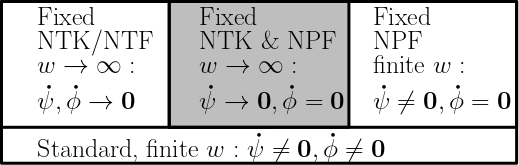
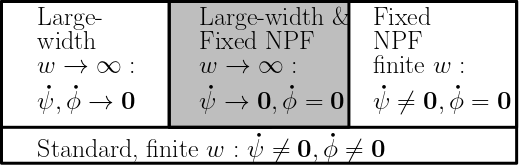
opti-refining

Changed region(s): [[0.3699, 0.0303, 0.6782, 0.303], [0.0617, 0.0303, 0.3083, 0.3333]]

diff --git a/fixednpf.tex b/fixednpf.tex
@@ -1,23 +1,5 @@
 \section{Fixed NPF regime}
-\begin{wrapfigure}{h}{0.3\textwidth}
-\includegraphics[scale=0.25]{figs/regime.png}
-\caption{\label{fig:regime} Regimes.}
-\end{wrapfigure}
-In the fixed NPF regime, we forcefully \emph{turn-off} feature learning, i.e., we let the feature gradient $\psi^{\phi}_{x,\Theta}=0$. In order to do this, we hold the gates and hence the NPFs in a separate gating network parameterised by $\Tg\inrdnet$, and the NPVs in a different network called value network parameterised by $\Theta\inrdnet$ (see \Cref{fig:dgn}). By letting the parameters of the gating network non-trainable, we can force $\psi^{\phi}_{x,\Theta}$ to be $0$. \WFclear A comparison of the GD dynamics across the three regimes namely i) the standard regime, wherein, width is finite, and the NPFs are learnt, ii) the `large-width' regime, in which the NPFs, NTFs do not deviate much from initialisation and iii) the fixed NPF regime are given in \Cref{tb:dynamics}. Note that if we let $w\ra\infty$ in the fixed NPF regime, can have a regime which is both `large-width' as well as fixed NPF (see middle region in \Cref{fig:regime}). Further, in the fixed NPF regime, $K_{\Theta}=K^v_{\Theta}$.
-\FloatBarrier
-\begin{table}[h]\centering
-\resizebox{\columnwidth}{!}{
-\begin{tabular}{| l | l | l |}\hline
-Finite $w$ with NPF learning (standard) & Large-Width & Fixed NPF\\\hline
-$\dot{\Theta}_t=-\sum_{s=1}^n \psi_{x,t}e_t(s)$ &$\dot{\Theta}_t\ra 0$ &$\dot{\Theta}_t=-\sum_{s=1}^n \psi^v_{x,t}e_t(s)$ \\\hline
-$\dot{\phi}_{x_s,t}(p)=x(\I_0(p))\sum_{\theta\in\Theta}\partial_{\theta}A_t(x_s,p)\dot{\theta}_t$ &$\dot{\phi}_{x_s,t}(p)\ra 0$ &$\dot{\phi}_{x_s,t}(p)=0$\\\hline
-$\dot{v}_t(p)=\sum_{\theta\in\Theta}\partial_{\theta}v_t(p)\dot{\theta}_t$ &$\dot{v}_t(p)\ra 0$ &$\dot{v}_t(p)=\sum_{\theta\in\Theta}\partial_{\theta}v_t(p)\dot{\theta}_t$\\\hline
-$\dot{e}_t=-(K^v_t+K^{\phi}_t+K^{cross}_{t})e_t$ &$\dot{e}_t=-K^{(d)}e_t$ &$\dot{e}_t=-K^v_te_t$\\\hline
-\end{tabular}
-}
-\caption{Dynamics in various regimes. Here $p\in[P], s\in[n]$.}
-\label{tb:dynamics}
-\end{table}
+In the fixed NPF regime, we forcefully \emph{turn-off} feature learning, i.e., we let the feature gradient $\psi^{\phi}_{x,\Theta}=0$. In order to do this, we hold the gates and hence the NPFs in a separate gating network parameterised by $\Tg\inrdnet$, and the NPVs in a different network called value network parameterised by $\Theta\inrdnet$ (see \Cref{tb:dgn}). By letting the parameters of the gating network non-trainable, i.e., $\Tg_0=\Tg_t,\forall t\geq 0$ we can force $\psi^{\phi}_{x,\Theta}$ to be $0$. Thus, the gates are copied from the gating network onto the value network as shown in the cartoon on the right in \Cref{tb:dgn}.
 \begin{table}[h] 
 \begin{minipage}{0.75\columnwidth}
 \resizebox{\columnwidth}{!}{
@@ -39,28 +21,57 @@ Output & None &$\hat{y}_t(x)={\Theta_t(d)}^\top z_{x,\Theta_t}(d-1)$\\\hline
 \caption{Setup to learn with fixed NPFs.}
 \label{tb:dgn}
 \end{table}
-\begin{assumption}\label{assmp:main}
+\begin{wrapfigure}{h}{0.3\textwidth}
+\includegraphics[scale=0.25]{figs/regime.png}
+\caption{\label{fig:regime} Regimes.}
+\end{wrapfigure}
+A comparison of the GD dynamics across the three regimes namely i) the standard regime, wherein, width is finite, and the NPFs are learnt, ii) the `large-width' regime, in which the NPFs, NTFs do not deviate much from initialisation and iii) the fixed NPF regime are given in \Cref{tb:dynamics}. Note that if we let $w\ra\infty$ in the fixed NPF regime, can have a regime which is both `large-width' as well as fixed NPF (see middle region in \Cref{fig:regime}). Further, in the fixed NPF regime, $K_{\Theta}=K^v_{\Theta}$.
+\FloatBarrier
+\begin{table}[h]\centering
+\resizebox{\columnwidth}{!}{
+\begin{tabular}{| l | l | l |}\hline
+Finite $w$ with NPF learning (standard) & Large-Width & Fixed NPF\\\hline
+$\dot{\Theta}_t=-\sum_{s=1}^n \psi_{x,t}e_t(s)$ &$\dot{\Theta}_t\ra 0$ &$\dot{\Theta}_t=-\sum_{s=1}^n \psi^v_{x,t}e_t(s)$ \\\hline
+$\dot{\phi}_{x_s,t}(p)=x(\I_0(p))\sum_{\theta\in\Theta}\partial_{\theta}A_t(x_s,p)\dot{\theta}_t$ &$\dot{\phi}_{x_s,t}(p)\ra 0$ &$\dot{\phi}_{x_s,t}(p)=0$\\\hline
+$\dot{v}_t(p)=\sum_{\theta\in\Theta}\partial_{\theta}v_t(p)\dot{\theta}_t$ &$\dot{v}_t(p)\ra 0$ &$\dot{v}_t(p)=\sum_{\theta\in\Theta}\partial_{\theta}v_t(p)\dot{\theta}_t$\\\hline
+$\dot{e}_t=-(K^v_t+K^{\phi}_t+K^{cross}_{t})e_t$ &$\dot{e}_t=-K^{(d)}e_t$ &$\dot{e}_t=-K^v_te_t$\\\hline
+\end{tabular}
+}
+\caption{Dynamics in various regimes. Here $p\in[P], s\in[n]$.}
+\label{tb:dynamics}
+\end{table}
+\begin{assumption}[Independent Initialisation]\label{assmp:main}
 (i) $\Theta_0\inrdnet$ is statistically independent of NPFs, (ii) $\Theta_0$ are sampled i.i.d from a distribution such that for any $\theta_0\in\Theta_0$,  we have $\E{\theta_0}=0$, and  $\E{\theta^2_0}=\sigma^2$, and $\E{\theta^4_0}={\sigma'}^2$.
 \end{assumption}
-\begin{theorem}[\textbf{Main Result}]\label{th:main} Let $H_{\Theta}=\Phi^\top_{\Theta}\Phi_{\Theta}$ be the neural path kernel (NPK) matrix , then under \Cref{assmp:main}, we have:\\
-(i) $\E{K_{\Theta_0}}=d\sigma^{2(d-1)} H_{\Theta_0}.$
+\begin{theorem}[\textbf{Main Result}]\label{th:main} Let $H_{\Tg_0}=\Phi^\top_{\Tg_0}\Phi_{\Tg_0}$ be the neural path kernel (NPK) matrix , then under \Cref{assmp:main}, we have:\\
+(i) $\E{K_{\Theta_0}}=d\sigma^{2(d-1)} H_{\Tg_0}.$
 
 (ii) In addition, if ${4d}/{w^2}<1$, then $Var\left[K_0\right]\leq O\left(d^2_{in}\sigma^{4(d-1)}\max\{d^2w^{2(d-2)+1}, d^3w^{2(d-2)}\}\right)$.
 \end{theorem}
-The above result says that in the fixed NPF regime, in the limit of infinite width, at random initialisation as per \Cref{assmp:main}, the NTK $K_{\Theta_0}$ is equal to the NPK $H_{\Theta_0}$ times a scaling constant. From pervious results, \cite{arora2019exact,cao2019generalization}, if follows that as $w\ra\infty$, the optimisation and generalisation properties of the fixed NPF learner can be tied down to $H_{\Theta_0}$. The NPK has a special \emph{Hadamard} structure as show below in \Cref{lm:npk}.
+\textbf{Remark on\Cref{assmp:main} :} This is known as the \emph{independent initialisation} case, because, the NPVs $v_{\Theta_0}$ and NPFs $\phi_{x_s,\Tg_0},s\in[n]$ are statistically independent at initialisation. Note that, in a standard DNN with ReLU activations, at initialisation, NPFs and NPV are derived from the same $\Theta_0$, i.e., $\Tg_0=\Theta_0$; we call this case as the \emph{dependent initialisation} which does not satisfy \Cref{assmp:main}. In the case of \emph{dependent initialisation}, $K_{\Theta_0}\ra K^{(d)}$, where $K^{(d)}$ can be calculated by letting $\chi=\chi_{r}$ in \eqref{eq:ntkold} (note that in the fixed NPF regime feature gradient is $0$, and hence $\dot{G}=0$).
+
+\textbf{Remark on \Cref{th:main}:} This result says that in the fixed NPF regime, in the limit of infinite width, at random initialisation as per \Cref{assmp:main}, the NTK $K_{\Theta_0}$ is equal to the NPK $H_{\Tg_0}$ times a scaling constant. From pervious results, \cite{arora2019exact,cao2019generalization}, if follows that as $w\ra\infty$, the optimisation and generalisation properties of the fixed NPF learner can be tied down to $H_{\Tg_0}$. \Cref{th:main} can be applied in the following two interesting scenarios:\\
+$1.$ Learning with random fixed NPFs. Here, we choose $\Tg_0$ according to \Cref{assmp:main}-(ii) and statistically independent of $\Theta_0$. The learning problem in this case is $\hat{y}_{\Theta_t}(x)=\ip{\phi_{x,\Tg_0},v_{\Theta_t}}$.\\
+$2.$ Learning with fixed NPFs from pre-trained networks. Here, we copy the weights of a pre-trained network into $\Tg_0$, and then start with a random $\Theta_0$ as \Cref{assmp:main}, i.e., we retain the NPFs and then reset the NPVs to relearn them from scratch. \Cref{th:main} states that a network trained this way will generalise as well as its NPK.
+
+Before we proceed to discuss the two scenarios, we will look at the structure of NPK matrix.
+\subsection{Hadamard Structure of NPK}
+\begin{definition}[Correlation of Sub-Networks]\label{def:lambda}
+Let $\tau_{\Theta}(s,s',l)\stackrel{def}=\sum_{i=1}^w G_{x_s,\Theta}(l,i)G_{x_{s'},\Theta}(l,i)$ be the number of activations that are \emph{on} for both inputs $s,s'\in[n]$ in layer $l$. Let $p\rsa i$ denote the fact that path $p$ passes through input node $i\in[d_{in}]$, then define $\Lambda_{\Theta}(s,s')\stackrel{def}{=}\sum_{p\rsa i} A_{\Theta}(x_s,p) A_{\Theta}(x_{s'},p)$, $\forall s,s'\in[n]$, any $i\in [d_{in}]$.
+\end{definition}
+In the \Cref{def:lambda} above, $\Lambda_{\Theta}\in\R^{n\times n}$ is the correlation matrix of the active sub-networks (consisting of the activations that are \emph{on}) of different input pairs $s,s'\in[n]$. Note that the definition of $\Lambda_{\Theta}$ is not dependent on the choice of input node $i$, because, the terms inside the summation depend only on the path followed from the first layer onwards and excludes the input node.
+
 \begin{lemma}\label{lm:npk}
-Let $p\rsa i$ denote the fact that path $p$ passes through input node $i\in[d_{in}]$, and let $\Lambda_{\Theta}(s,s')\stackrel{def}{=}\sum_{p\rsa i} A_{\Theta}(x_s,p) A_{\Theta}(x_{s'},p)$, $\forall s,s'\in[n]$, any $i\in [d_{in}]$. It follows that $H_{\Theta}= \Sigma\odot\Lambda_{\Theta}$, where $\odot$ stands for the Hadamard product, and $\Sigma \in \R^{n\times n}$ is the input Gram matrix.
+It follows that:
+
+i) $\Lambda_{\Theta}(s,s')=\Pi_{l=1}^{d-1}\tau_{\Theta}(s,s',l)$.
+
+ii) $H_{\Theta}= \Sigma\odot\Lambda_{\Theta}$, where $\odot$ stands for the Hadamard product, and $\Sigma \in \R^{n\times n}$ is the input Gram matrix.
 \end{lemma}
-In the \Cref{lm:npk} above, $\Lambda_{\Theta}\in\R^{n\times n}$ is the correlation matrix of the active sub-networks (consisting of the activations that are \emph{on}) of different input pairs $s,s'\in[n]$. Note that the definition of $\Lambda$ is not dependent on the choice of input node $i$, because, the terms inside the summation depend only on the path followed from the first layer onwards and excludes the input node.
+
 
 We will now discuss about an interesting application of \Cref{th:main} to the problem of learning with fixed random NPFs.
-\subsection{Learning with fixed random NPFs obtained at random initialisation}
-At random initialisation, the output of a DNN is given by $\hat{y}_{\Theta_0}=\ip{\phi_{x,\Theta_0},v_{\Theta_0}}$, where, $\phi_{x,\Theta_0}$ is the random NPF and $v_{\Theta_0}$ is the random NPV. We are interested in learning with the random NPF $\phi_{x,\Theta_{0}}$, we have the following two interesting cases:
-
-\textbf{Case I: $w\ra\infty$, dependent initialisation:} In this case, we let $\Tg_0=\Theta_0$, and keep the parameters of the gating network fixed by letting $\Tg_t=\Tg_0,\forall t\geq 0$. The name dependent initialisation denotes that NPFs and NPVs are statistically dependent at initialisation, in which case \Cref{assmp:main} does not hold. In this case, $K_{\Theta_0}\ra K^{(d)}$. Since the feature gradient is $0$, and hence $\dot{G}=0$, $K^{(d)}$ can be calculated by letting $\chi=\chi_{r}$ in \eqref{eq:ntkold}.
-
-\textbf{Case II: $w\ra\infty$, independent initialisation:} In this case, while the parameters of the gating network fixed by letting $\Tg_t=\Tg_0,\forall t\geq 0$, at initialisation $\Tg_0$ and $\Theta_0$ are sampled independently. As a result, the NPVs and NPFs are statistically independent, and the output is given by $\hat{y}_{\Theta_t}(x)=\ip{\phi_{x,\Tg_0},v_{\Theta_t}}$. In this case, \Cref{assmp:main} can be satisfied if we choose $\Theta_0$ according to \Cref{assmp:main}-(ii). Here, as mentioned before the optimisation and generalisation is tied down to $H_{\Theta_0}$. 
-\subsection{Role of Depth in Optimisation}
+\subsection{Optimisation with fixed random NPFs at random initialisation: Role of Depth}
 \textbf{Kernel Whitening:} Consider the case of independent initialisation, with $w\ra\infty$. Here, $K_{\Theta_0}\ra d\sigma^{(d-1)}H_{\Theta_0}$. For random initialisation, due to symmetry only half the activations are \emph{on} per-layer, and the diagonal entries of $\Lambda_0$ grow at a rate roughly $(w/2)^{(d-1)}$, and choosing $\sigma=\sqrt{\frac{2}w}$ will have a normalising effect. However, for two different inputs $s,s'\in[n]$ which are not parallel, the per-layer overlap will not be $100\%$ and hence $\Lambda_0(s,s')$ grows at a rate roughly $(w/2)^{(d-1)}\Pi_{l=1}^d \mu_l(s,s')$, where $\mu_{l}(s,s')\in(0,1)$ is the fractional overlap of \emph{on} activations in layer $l$ for inputs $s,s'$. Thus as depth increases, the non-diagonal terms decay at an exponential rate when compared to diagonal terms.
 
 When optimising with fixed NPFs, when the width is finite, increasing depth till a point helps in training performance due to the whitening of the kernel. Increasing depth beyond a point hurts, because, the variance term has a depth dependence, due to which, the entires of $K_{\Theta_0}$ deviate from their expected values.
